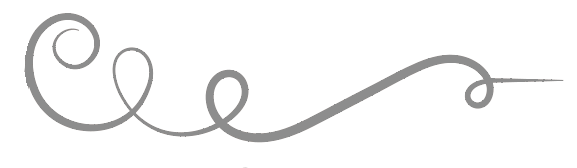
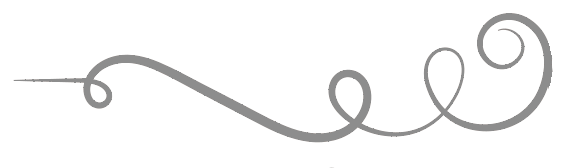
reworked themes, more style stuff

Changed region(s): [[0.0312, 0.0595, 0.9671, 0.8631]]

diff --git a/client/src/pages/Welcome/index.js b/client/src/pages/Welcome/index.js
@@ -9,11 +9,15 @@ import './style.css';
 
 const Welcome = props => {
     return <Container>
-        <Row className='my-4'>
+        <Row className='mt-4 mb-2 w-md-75 mx-auto'>
+            <Col md={3} className='img-col' >
+                <   Image src='./images/flourish-left.png' className=' d-none d-md-inline-block' fluid />
+            </Col>
             <Col>
-                <Image src='./images/flourish-left.png' />
                 <h1 className='text-center homepage-title' style={props.theme.titleText}><strong>A Quest!</strong></h1>
-                <Image />
+            </Col>
+            <Col md={3} className='img-col' >
+                <Image src='./images/flourish-right.png' className='d-none d-md-inline-block' fluid />
             </Col>
         </Row>
         <Row>
@@ -23,20 +27,24 @@ const Welcome = props => {
         </Row>
         <Row className='mt-4 mb-3'>
             <Col className='text-right'>
-                <Button style={props.theme.buttons}>
-                    <Link style={props.theme.lightText} to='/signup'>Sign Up</Link>
-                </Button> 
+                <Link style={props.theme.lightText} to='/signup'>
+                    <Button style={props.theme.buttons}>
+                     Sign Up
+                    </Button>
+                </Link>
             </Col>
             <Col>
                 <Image src='./images/flourish.png' fluid />
             </Col>
             <Col className='text-left'>
-                <Button style={props.theme.buttons}>
-                    <Link style={props.theme.lightText} to='/signin'>Sign In</Link>
-                </Button> 
+                <Link style={props.theme.lightText} to='/signin'>
+                    <Button style={props.theme.buttons}>
+                        Sign In
+                    </Button> 
+                </Link>
             </Col>
         </Row>
-    </Container>
+    </Container >
 }
 
 export default Welcome;

diff --git a/client/src/utils/themes.js b/client/src/utils/themes.js
@@ -1,0 +1,61 @@
+const colorSchemes = {
+    redGreen: {
+        dark: '#393F26',
+        light: '#818474',
+        highlight: '#EDDDD4',
+        splash: '#AD0101'
+    }
+}
+
+const getTheme = themeName => {
+    const {dark, light, highlight, splash} = colorSchemes[themeName];
+    return {
+        darkBg: {
+            backgroundColor: dark
+        },
+        lightBg: {
+            backgroundColor: light
+        },
+        buttons: {
+            backgroundColor: splash,
+            border: `2px solid ${highlight}`,
+            boxShadow: '0px 5px 10px 0px rgba(0,0,0,0.25)'
+        },
+        mainText: {
+            color: dark
+        },
+        lightText: {
+            color: highlight
+        },
+        titleText: {
+            color: splash,
+            textShadow: `1px -1px 0 ${highlight}, 1px -1px 0 ${highlight}, -1px 1px 0 ${highlight}, 1px 1px 0 ${highlight}`
+        }
+    }
+}
+
+export default getTheme;
+
+// "red": {
+//     "darkBg": {
+//         "backgroundColor": "#393F26"
+//     },
+//     "lightBg": {
+//         "backgroundColor": "#818474"
+//     },
+//     "lightText": {
+//         "color": "#EDDDD4"
+//     },
+//     "buttons": {
+//         "backgroundColor": "#8E0101",
+//         "border": "2px solid #EDDDD4",
+//         "boxShadow": "0px 5px 10px 0px rgba(0,0,0,0.25)"
+//     },
+//     "mainText": {
+//         "color": "#AD0101"
+//     },
+//     "titleText": {
+//         "color": "#AD0101",
+//         "textShadow": "-1px -1px 0 #EDDDD4, 1px -1px 0 #EDDDD4, -1px 1px 0 #EDDDD4, 1px 1px 0 #EDDDD4"
+//     }
+// }

diff --git a/client/src/App.js b/client/src/App.js
@@ -12,16 +12,15 @@ import './App.css';
 
 class App extends Component {
   state = {
-    signedIn: false,
-    theme: themes.red
+    signedIn: true,
+    theme: themes('redGreen')
   };
 
   render() {
     document.getElementById('root').style.backgroundColor = this.state.theme.lightBg.backgroundColor;
-
     return <Router>
       <Switch>
-        <Route exact path="/" render={() => this.state.signedIn ?  Quest  : <Welcome theme={this.state.theme}/>} />
+        <Route exact path="/" render={() => this.state.signedIn ?  <Quest /> : <Welcome theme={this.state.theme}/>} />
         <Route exact path="/signup" render={() => <Signup theme={this.state.theme} />} />
         <Route exact path="/signin" render={() => <Signin theme={this.state.theme} />} />
         <Route component={NoMatch} />

diff --git a/client/src/pages/Signup/index.js b/client/src/pages/Signup/index.js
@@ -9,14 +9,14 @@ import SignupForm from '../../components/SignupForm'
 const Signup = props => {
     return <div>
         <QuestNav theme={props.theme} />
-        <Container>
+        <Container style={props.theme.mainText}>
             <Row className='my-3 text-center' >
                 <Col>
-                    <h1>Welcome to <strong>A Quest!</strong></h1>
+                    <h1>Welcome to <strong style={props.theme.titleText}>A Quest!</strong></h1>
                 </Col>
             </Row>
             <Row className='mb-3'>
-                <Col className='d-none d-lg-block' >
+                <Col className='d-none d-lg-block mr-3' >
                     <Image src='https://via.placeholder.com/300x500' fluid />
                 </Col>
                 <Col xs={12} lg={9} >

diff --git a/client/src/pages/Signin/index.js b/client/src/pages/Signin/index.js
@@ -10,14 +10,14 @@ import './style.css';
 const Signin = props => {
     return <div>
         <QuestNav theme={props.theme} />
-        <Container>
+        <Container style={props.theme.mainText}>
             <Row className='my-3 text-center' >
                 <Col>
-                    <h1>Welcome back to <strong>A Quest!</strong></h1>
+                    <h1>Welcome back to <strong style={props.theme.titleText}>A Quest!</strong></h1>
                 </Col>
             </Row>
             <Row className='mb-3'>
-                <Col className='d-none d-lg-block' >
+                <Col className='d-none d-lg-block mr-3' >
                     <Image src='https://via.placeholder.com/300x500' fluid />
                 </Col>
                 <Col xs={12} lg={9}>

diff --git a/client/src/App.css b/client/src/App.css
@@ -13,14 +13,21 @@
     font-style: normal;
 }
 
-h1, button {
+body {
     font-family: 'Baskervville', Baskerville, serif
 }
-
 h2, strong {
     font-family: Landliebe;
 }
-
 strong {
     font-size: 3rem;
+}
+button, button:hover {
+    transition: color 0.25s ease;
+}
+button:hover {
+    background-color: #3b3a3b!important;
+}
+button a:hover {
+    text-decoration: none!important;
 }

diff --git a/client/src/components/QuestNav/style.css b/client/src/components/QuestNav/style.css
@@ -3,6 +3,9 @@
     line-height: 2rem;
     font-size: 2rem;
 }
+.navbar-brand h2, .navbar-brand h2:hover {
+    transition: color 0.25s ease;
+}
 .navbar-brand a:hover, .navbar-brand h2:hover {
     text-decoration: none;
     color: #3b3a3b!important;

diff --git a/client/src/pages/Quest/index.js b/client/src/pages/Quest/index.js
@@ -1,7 +1,9 @@
 import React from 'react';
 
 const Quest = () => {
-    return <div>Quest</div>
+    return <div>
+        
+    </div>
 }
 
 export default Quest;

diff --git a/client/src/pages/Welcome/style.css b/client/src/pages/Welcome/style.css
@@ -1,3 +1,6 @@
 .homepage-title strong {
     font-size: 4rem;
 }
+.img-col {
+    line-height:100px;
+}

diff --git a/client/src/index.css b/client/src/index.css
@@ -1,4 +1,5 @@
 html, body, #root {
     height: 100vh;
     overflow: auto;
+    
 }
